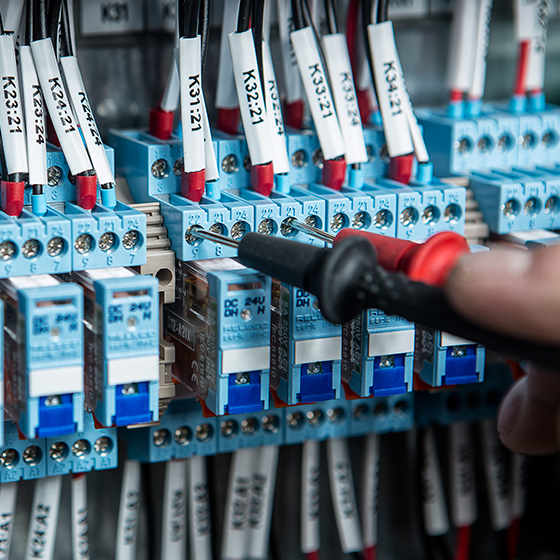
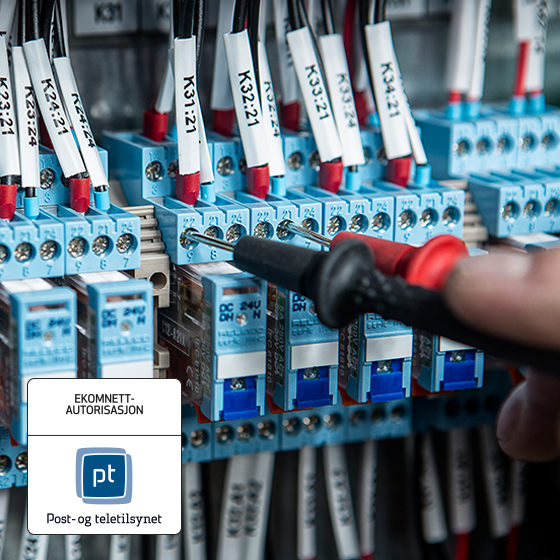
Ny tekst

diff --git a/index.html b/index.html
@@ -95,8 +95,7 @@
         </div><!-- /col-5 -->
         <div class="col-md-7">
           <h2 class="featurette-heading">Alt innen EL-tavler. <span class="text-muted">Vi leverer.</span></h2>
-          <p class="lead">Avdelingen utfører arbeidsoppgaver innen tavlefaget, alt fra enkle tavler til de mest avanserte elektrotavlene både for næring og bolig. Vi leverer over hele landet og til utlandet.</p>
-          <img src="img/autorisert.jpg" alt="autorisert" width="100" height="101">
+          <p class="lead">Avdelingen utfører arbeidsoppgaver for privat og offentlig sektor med blant annet alt fra enkle tavler til de mest avanserte elektrotavlene for næring og bolig. For øverig leverer og monterer vi nettverksteknologi og er både prosjekterende og utførende innenfor fiber-/nettverksteknologi. Vi kan også tilby testing og dokumentasjon av nettverk.</p>
         </div><!-- /col-7 -->
       </div><!-- /row -->
 
